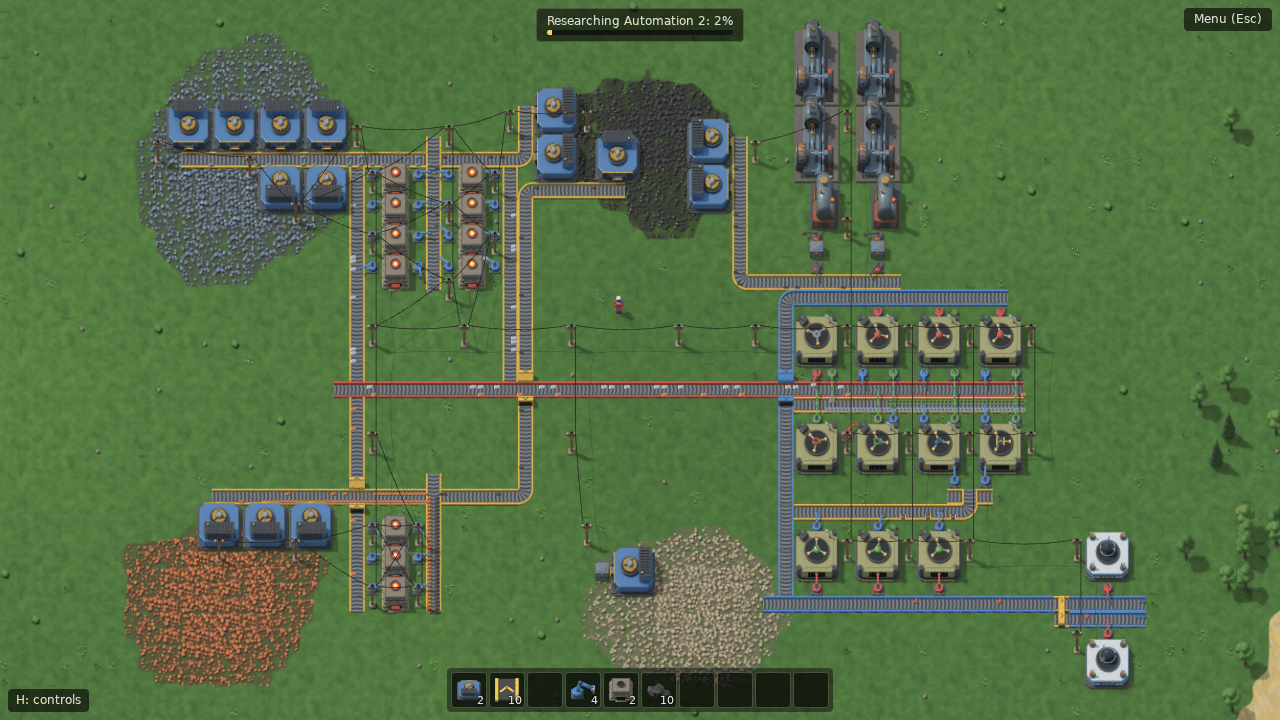
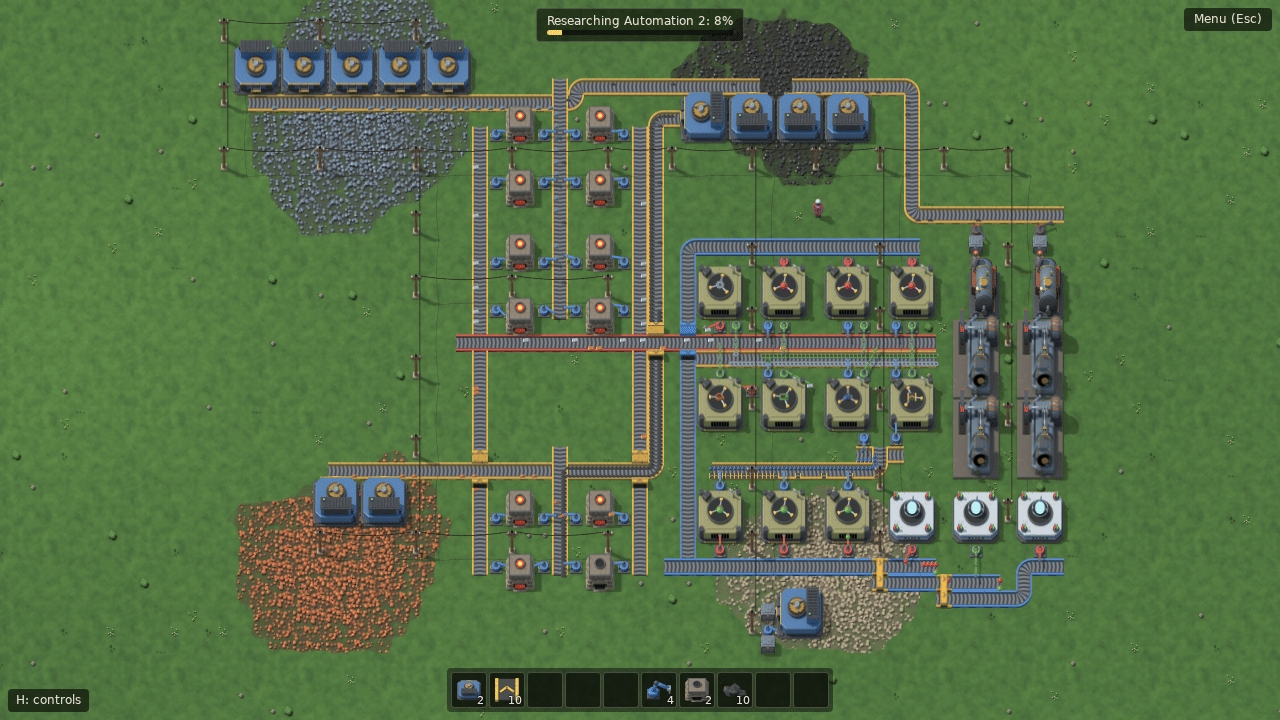
fix(demo): keep the factory clear of the hotbar when the camera frames it

diff --git a/src/ui/demo.ts b/src/ui/demo.ts
@@ -11,9 +11,9 @@ export const DEMO_ZOOM_MIN = 0.3;
 export const DEMO_ZOOM_MAX = 1;
 
 /**
- * The camera for a `width`×`height` CSS-pixel screen: the center of
- * `DEMO_BOUNDS` (in tiles) and the zoom that fits it with a margin of a tile
- * or two, within [`DEMO_ZOOM_MIN`, `DEMO_ZOOM_MAX`].
+ * The camera for a `width`×`height` CSS-pixel screen: `DEMO_BOUNDS` (in
+ * tiles) as large as fits, within [`DEMO_ZOOM_MIN`, `DEMO_ZOOM_MAX`], with a
+ * margin of two tiles, and two more at the bottom, where the hotbar is.
  */
 export function demoFraming(
   width: number,
@@ -21,12 +21,13 @@ export function demoFraming(
   bounds: { x0: number; y0: number; x1: number; y1: number } = DEMO_BOUNDS,
 ): { x: number; y: number; zoom: number } {
   const margin = 2;
+  const hotbar = 2;
   const w = (bounds.x1 - bounds.x0 + 1 + 2 * margin) * TILE_PX;
-  const h = (bounds.y1 - bounds.y0 + 1 + 2 * margin) * TILE_PX;
+  const h = (bounds.y1 - bounds.y0 + 1 + 2 * margin + hotbar) * TILE_PX;
   const fit = Math.min(width / w, height / h);
   return {
     x: (bounds.x0 + bounds.x1 + 1) / 2,
-    y: (bounds.y0 + bounds.y1 + 1) / 2,
+    y: (bounds.y0 + bounds.y1 + 1 + hotbar) / 2,
     zoom: Math.min(DEMO_ZOOM_MAX, Math.max(DEMO_ZOOM_MIN, fit)),
   };
 }
